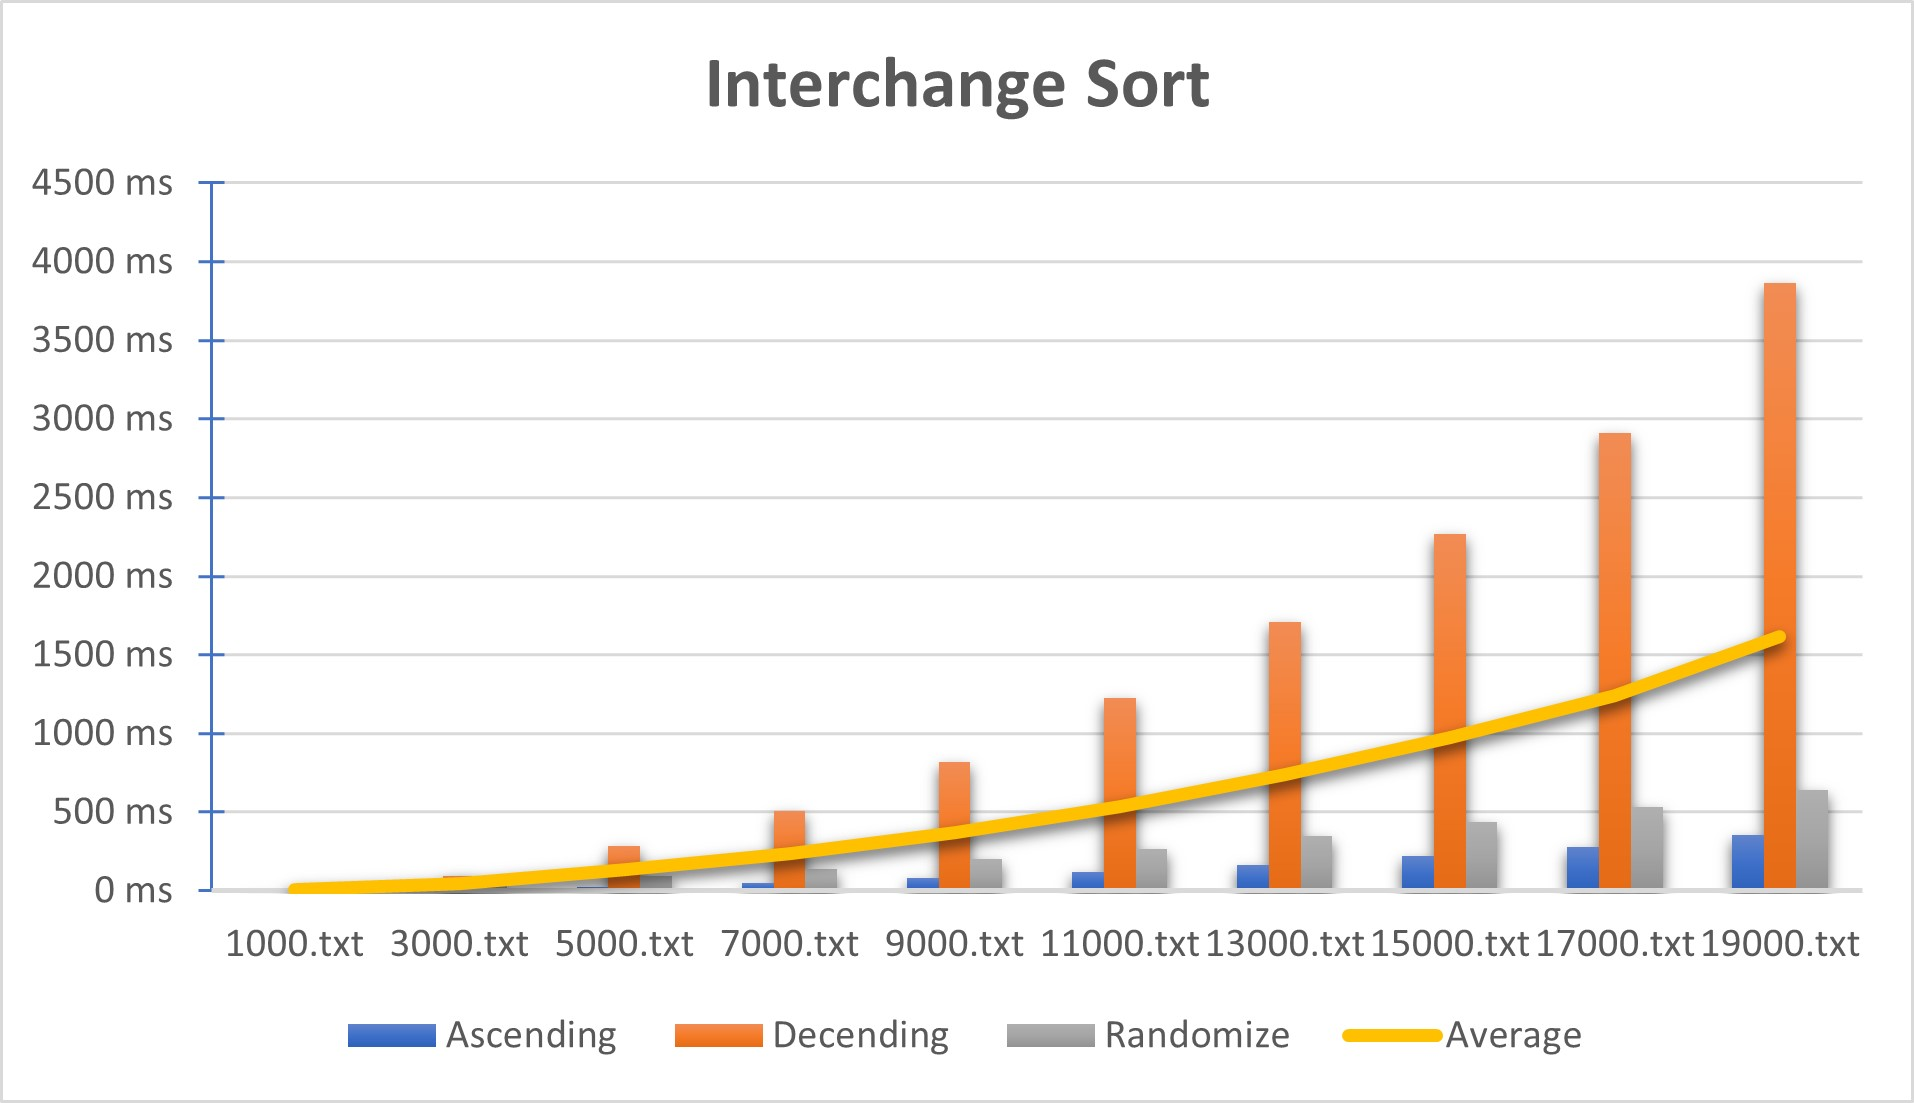
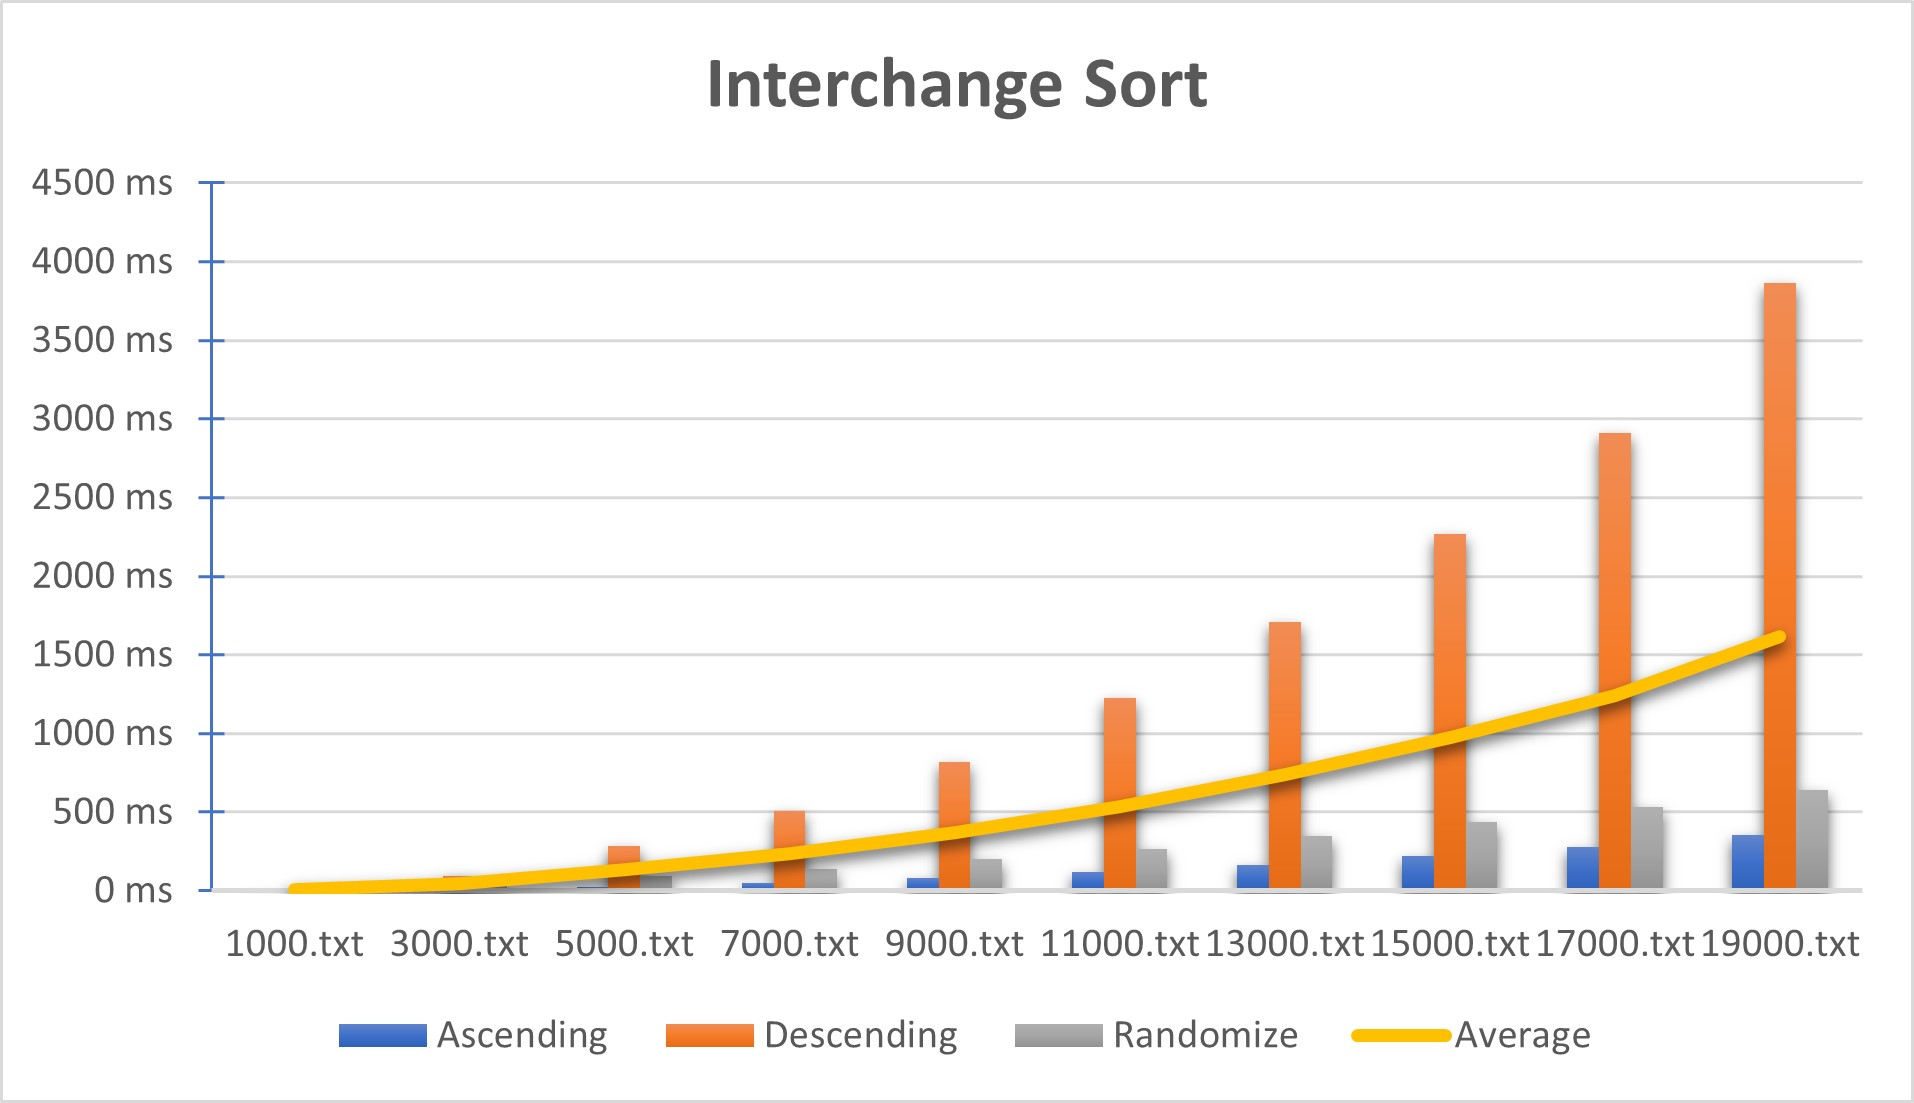
update outputs

diff --git a/Evaluate sorting algorithms/Source.cpp b/Evaluate sorting algorithms/Source.cpp
@@ -20,7 +20,7 @@ void generate_numbers(int n, int start_num, int end_num, int choice, const char*
 	}
 	else if (choice == 2) {
 		for (int i = n; i >= 1; --i) fprintf(f, "%d\n", i);
-		cout << "\nNum range with N = " << n << " and Decending type has been written to " << file_name;
+		cout << "\nNum range with N = " << n << " and Descending type has been written to " << file_name;
 	}
 	else if (choice == 3) {
 		srand(time(0));
@@ -57,11 +57,11 @@ void export_sorted_file(int* arr, int n, const char* file_name, const char* file
 
 int main() {
 	FILE* f = fopen("Results\\Radix Sort.txt", "w");
-	fprintf(f, "\t\t\t\tRadix Sort");
-	fprintf(f, "\nN\t\tAscending\tDecending\tRandomize\tAverage");
+	fprintf(f, "\t\t\tRadix Sort");
+	fprintf(f, "\nN\tAscending\tDescending\tRandomize\tAverage");
 
 	for (int n = 1000; n <= 21000; n += 2000) {
-		fprintf(f, "\n%d\t\t", n);
+		fprintf(f, "\n%d\t", n);
 
 		char buffer[6];
 		_itoa(n, buffer, 10);
